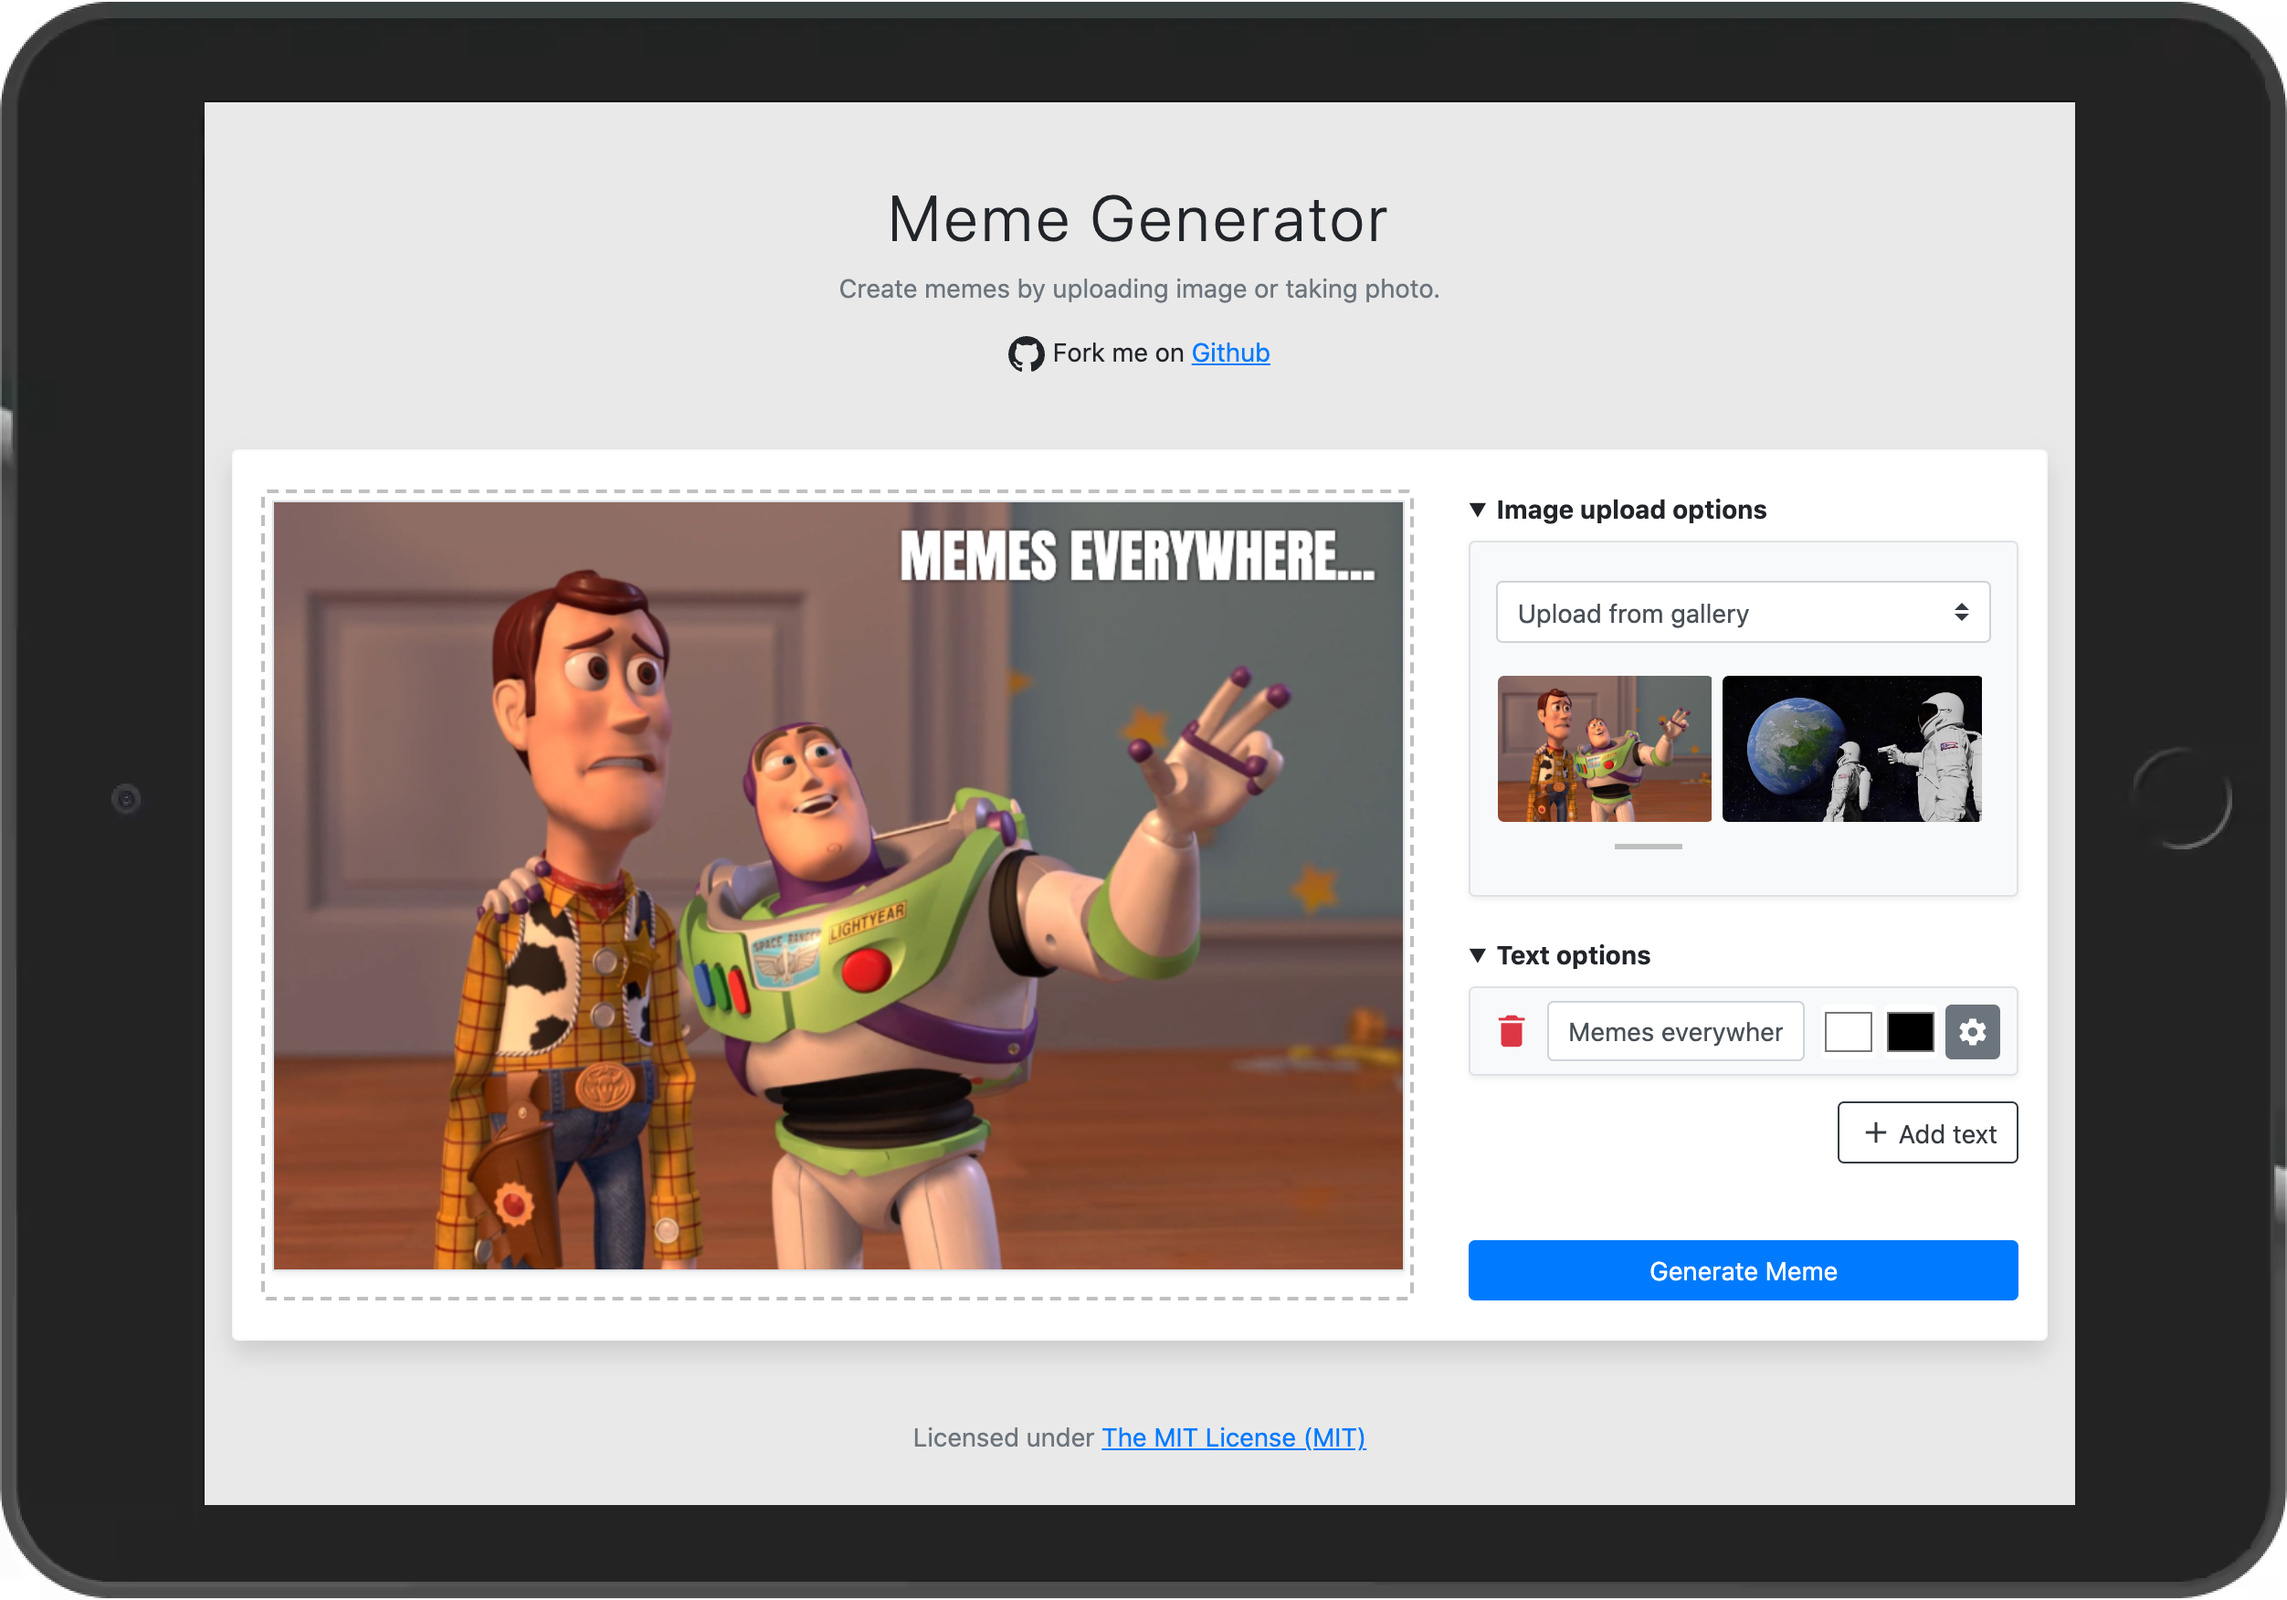
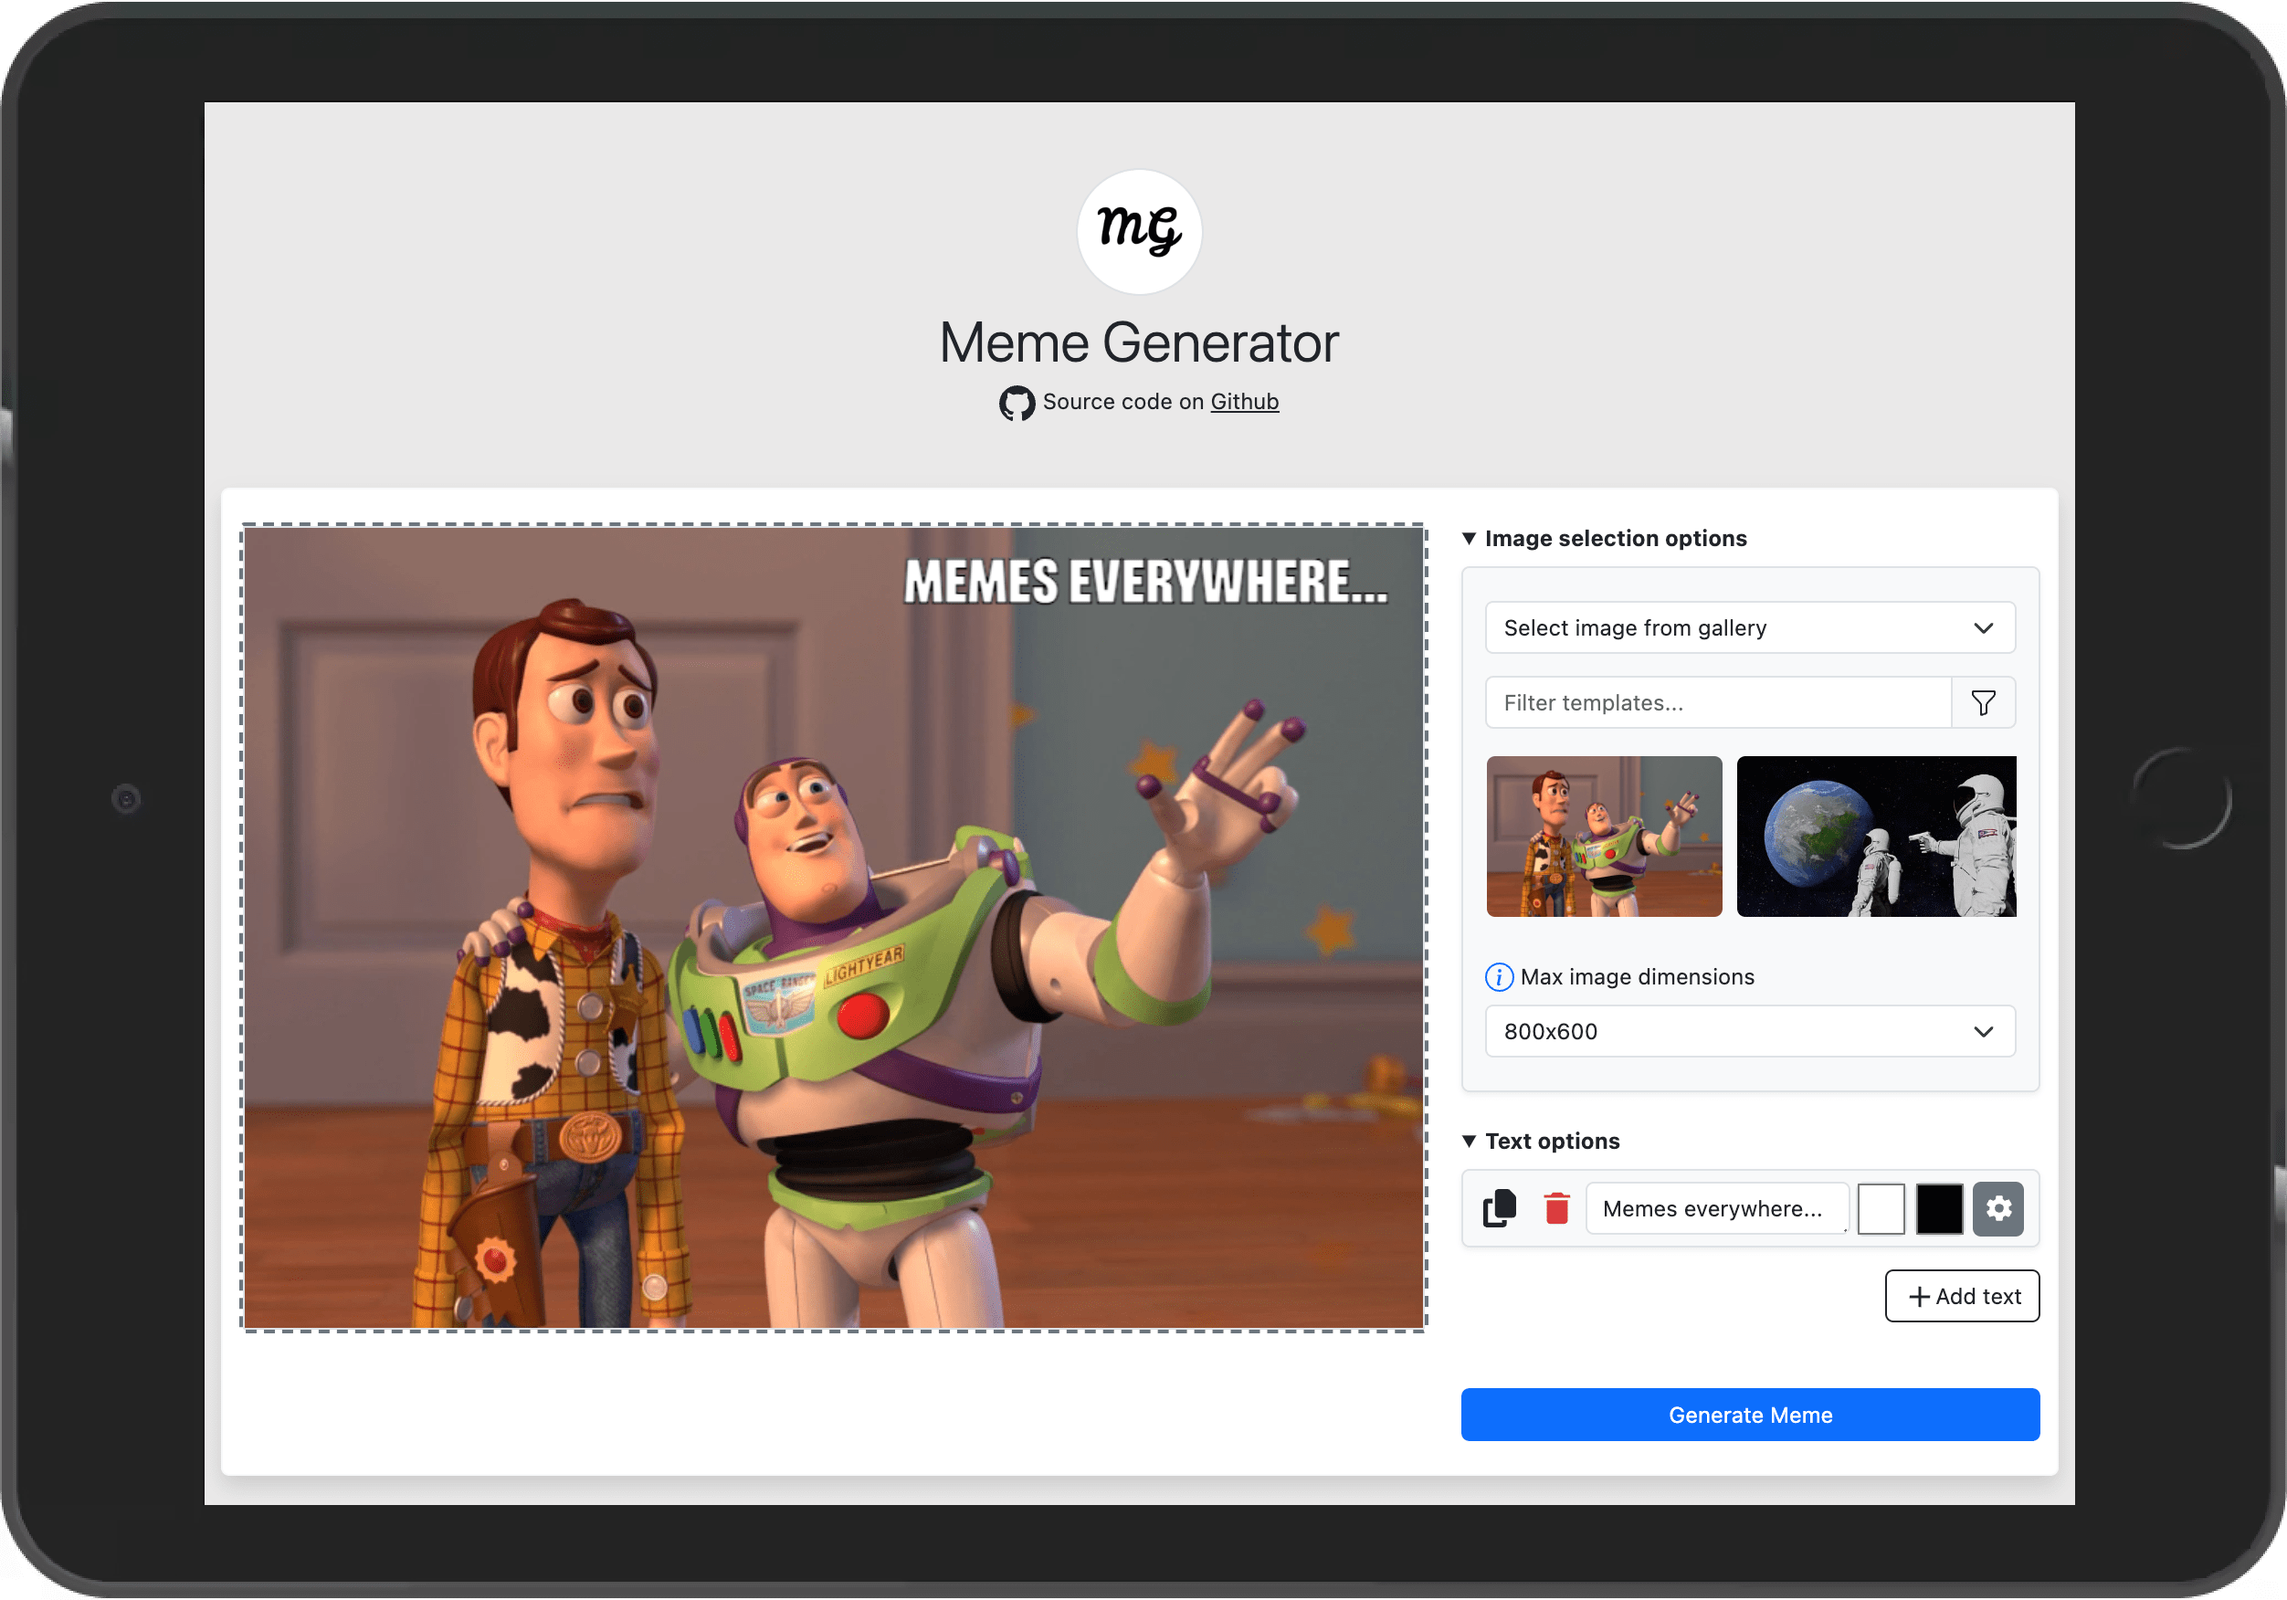
Update docs and dependencies

Changed region(s): [[0.0935, 0.1233, 0.9034, 0.9247], [0.405, 0.8938, 0.5919, 0.9247]]

diff --git a/src/index.html b/src/index.html
@@ -34,7 +34,7 @@
       <h1 class="page-title">Meme Generator</h1>
       <p class="mb-0">
         <svg aria-hidden="true" width="20" height="20" fill="currentColor" viewBox="0 0 16 16"><path d="M8 0C3.58 0 0 3.58 0 8c0 3.54 2.29 6.53 5.47 7.59.4.07.55-.17.55-.38 0-.19-.01-.82-.01-1.49-2.01.37-2.53-.49-2.69-.94-.09-.23-.48-.94-.82-1.13-.28-.15-.68-.52-.01-.53.63-.01 1.08.58 1.23.82.72 1.21 1.87.87 2.33.66.07-.52.28-.87.51-1.07-1.78-.2-3.64-.89-3.64-3.95 0-.87.31-1.59.82-2.15-.08-.2-.36-1.02.08-2.12 0 0 .67-.21 2.2.82.64-.18 1.32-.27 2-.27.68 0 1.36.09 2 .27 1.53-1.04 2.2-.82 2.2-.82.44 1.1.16 1.92.08 2.12.51.56.82 1.27.82 2.15 0 3.07-1.87 3.75-3.65 3.95.29.25.54.73.54 1.48 0 1.07-.01 1.93-.01 2.2 0 .21.15.46.55.38A8.012 8.012 0 0 0 16 8c0-4.42-3.58-8-8-8z"></path></svg>
-        Fork me on <a href="https://github.com/georapbox/meme-generator" class="text-underline text-dark" target="_blank" rel="noopener noreferrer">Github</a>
+        Source code on <a href="https://github.com/georapbox/meme-generator" class="text-underline text-dark" target="_blank" rel="noopener noreferrer">Github</a>
       </p>
     </header>
 
@@ -257,7 +257,7 @@
 
       <div class="row mb-5">
         <div class="col text-center">
-          Licensed under <a class="text-underline text-dark" href="https://georapbox.mit-license.org/@2018" target="_blank" rel="noopener">The MIT License (MIT)</a>
+          Licensed under <a class="text-underline text-dark" href="https://github.com/georapbox/meme-generator/blob/master/LICENSE" target="_blank" rel="noopener">The MIT License (MIT)</a>
         </div>
       </div>
     </div>

diff --git a/README.md b/README.md
@@ -1,16 +1,21 @@
-<p align="center">
-  <img src="src/assets/app-icons/logo.png" width="150" height="150" alt="Meme Generator">
-</p>
-
-<h1 align="center">Meme Generator</h1>
+# Meme Generator
 
 A Progressive Web App (PWA) for creating memes.
 
-The application is built with web technologies such as HTML, CSS, and JavaScript. It uses the [Canvas API](https://developer.mozilla.org/docs/Web/API/Canvas_API) to draw the meme text on the image. Processing the image and text is done client-side, so no data is sent to any server.
+## About
+
+This is a web application that allows users to create memes by adding text to images.
+The application is built with web technologies such as HTML, CSS, and JavaScript.
+It uses the [Canvas API](https://developer.mozilla.org/docs/Web/API/Canvas_API) to draw the meme text on the image. 
+Processing the image and text is done client-side, so no data is sent to any server.
+
+## Live demo
+
+👉 [Meme Generator](https://georapbox.github.io/meme-generator/)
 
 ## Features
 
-Create a meme with by:
+Some of the key features of the application include creating memes by:
 - Selecting an image from your device
 - Selecting an image from the web (by URL)
 - Selecting an image from the gallery
@@ -19,7 +24,9 @@ Create a meme with by:
 
 ## Screenshots
 
-![meme](src/assets/app-icons/screenshots/screenshot.png)
+The following screenshots show the application in action:
+
+![meme](screenshots/screenshot.png)
 
 ## Development
 
@@ -34,13 +41,13 @@ Below are the instructions for setting up the development environment.
 
 Clone the repository to your local machine:
 
-```bash
+```sh
 git clone git@github.com:georapbox/meme-generator.git
 ```
 
 Navigate to the project's directory and install the dependencies:
 
-```bash
+```sh
 npm install
 ```
 
@@ -48,7 +55,7 @@ npm install
 
 To run the application in development mode, run the following command:
 
-```bash
+```sh
 npm start -- --open
 ```
 
@@ -58,7 +65,7 @@ This will start the development server and open the application in your default 
 
 To build the application for production, run the following command:
 
-```bash
+```sh
 npm run build
 ```
 
@@ -68,7 +75,7 @@ This will create a `dist` directory containing the production build of the appli
 
 To deploy the application, run the following command:
 
-```bash
+```sh
 npm run deploy
 ```
 
@@ -76,4 +83,4 @@ This will build the application first and then deploy it to GitHub Pages in the 
 
 ## License
 
-[The MIT License (MIT)](https://georapbox.mit-license.org/@2019)
+[The MIT License (MIT)](https://github.com/georapbox/meme-generator/blob/master/LICENSE)
